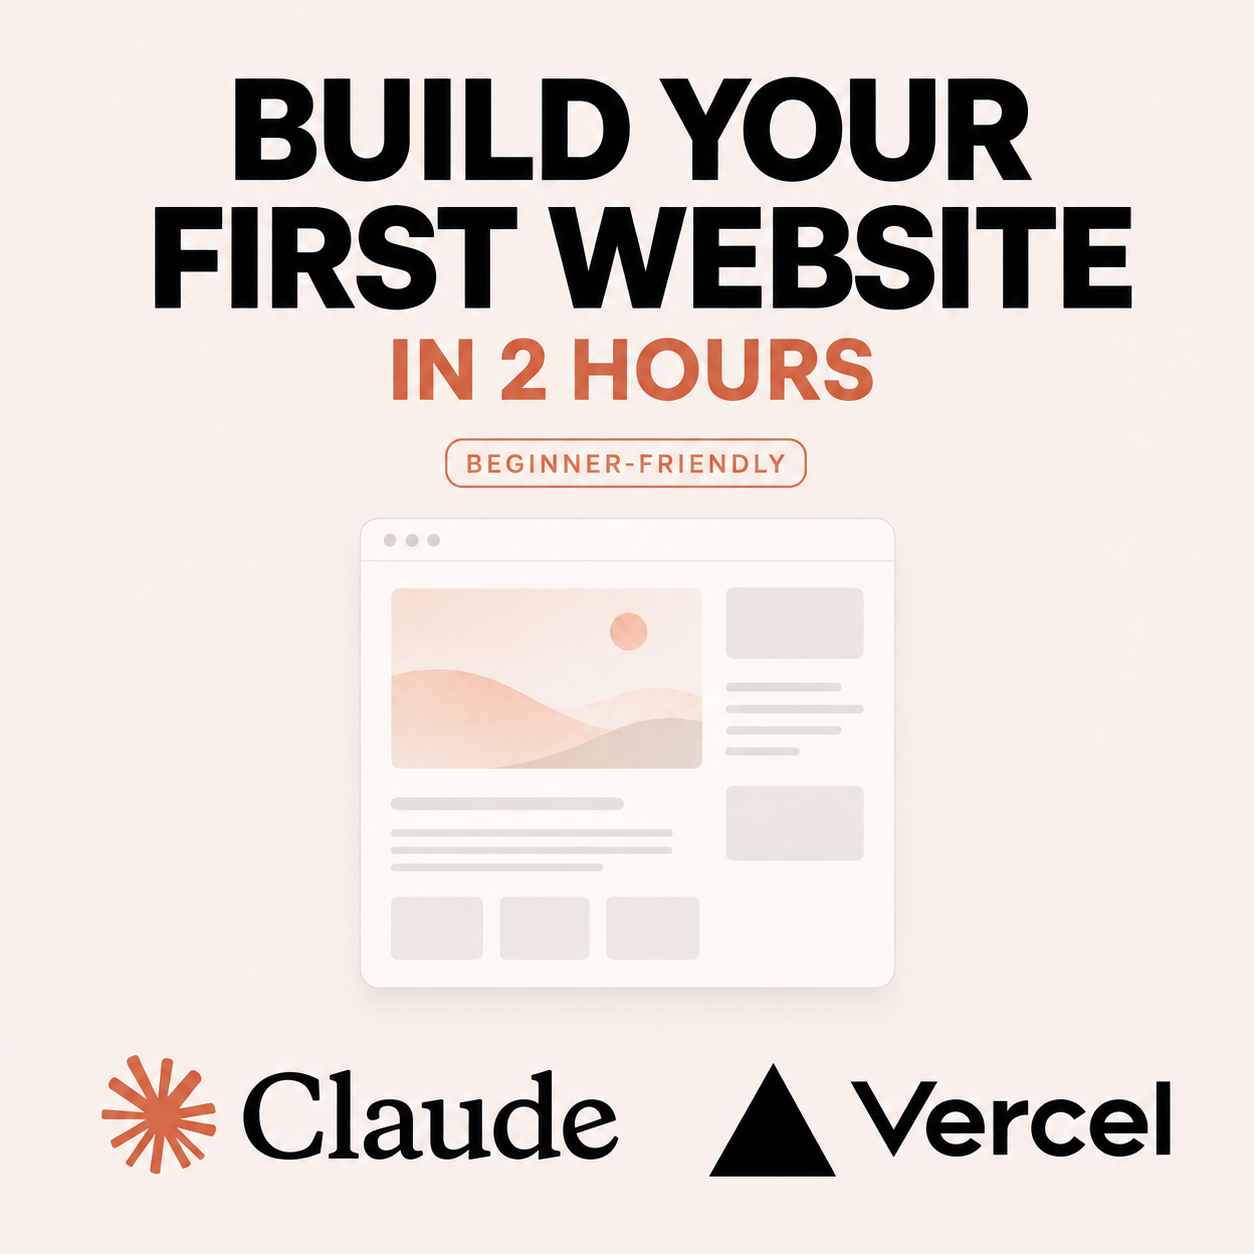
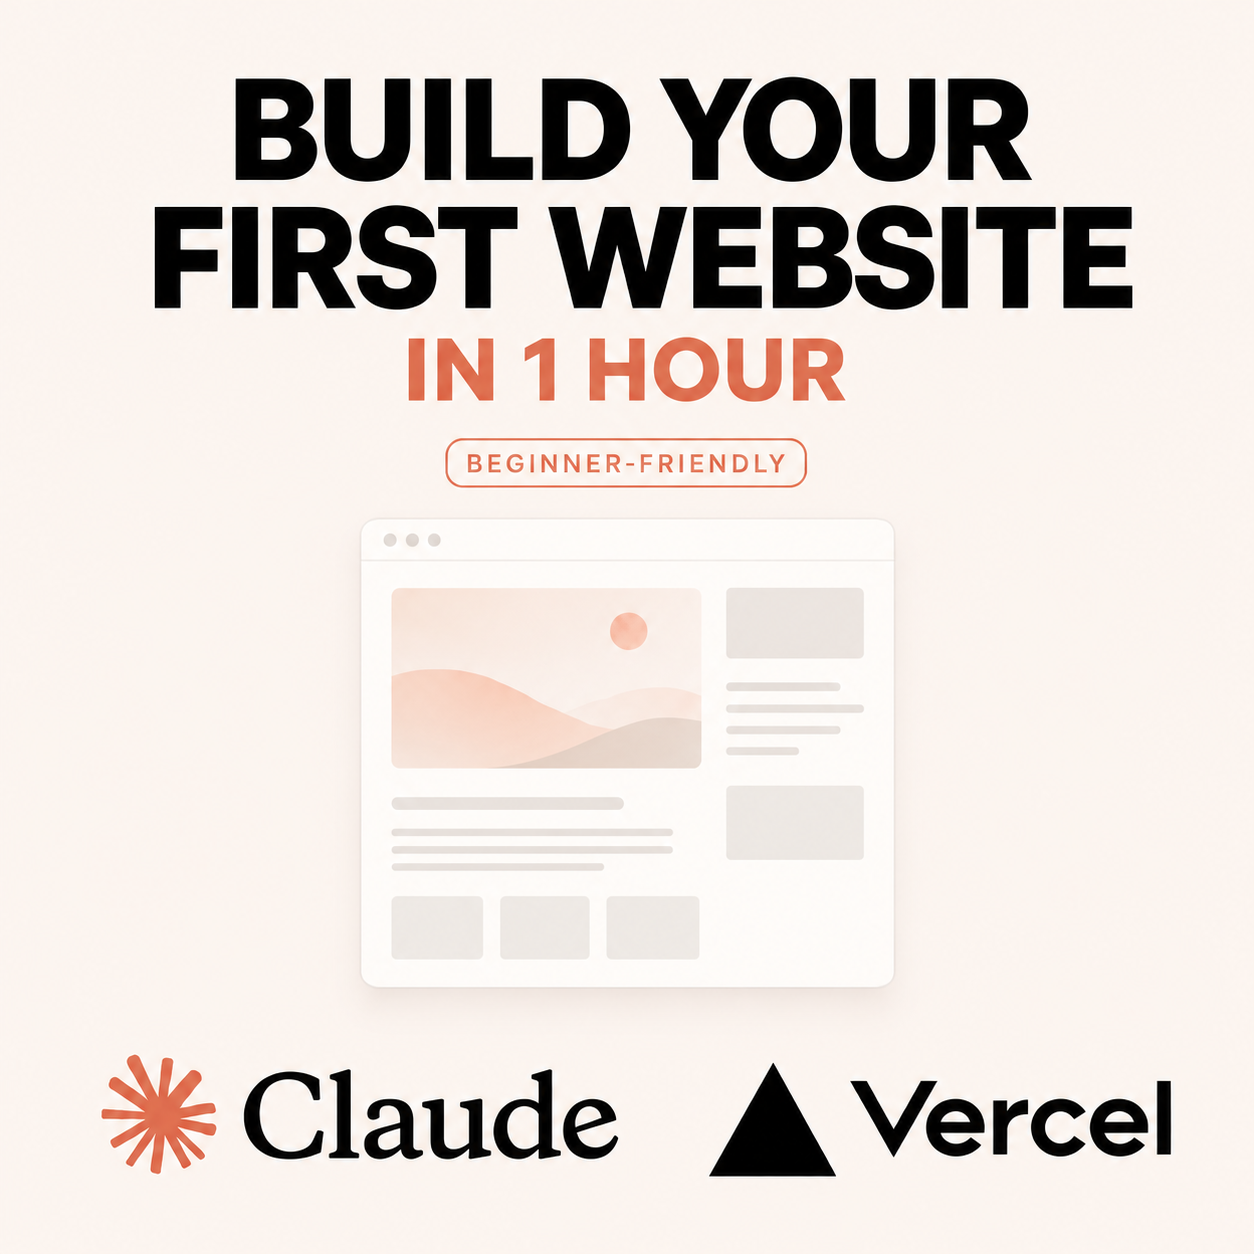
Replace Claude workshop cover with 1-hour version
Claude-Session: https://claude.ai/code/session_01Lpk5UFr1y7HYcs5J7TKPYJ

diff --git a/lib/workshops/claude-steps.tsx b/lib/workshops/claude-steps.tsx
@@ -32,7 +32,7 @@ export const CLAUDE_STEPS: WorkshopStep[] = [
     id: "welcome",
     part: "before you start",
     // The title slide: the page itself carries no hero, so it lives here. The
-    // cover art on the left carries the "in 2 hours" hook, so the heading states
+    // cover art on the left carries the "in 1 hour" hook, so the heading states
     // the promise plainly.
     title: "Build your first website",
     lines: [
@@ -44,7 +44,7 @@ export const CLAUDE_STEPS: WorkshopStep[] = [
       src: "/workshops/claude/title-cover.png",
       width: 1254,
       height: 1254,
-      alt: "Build your first website in 2 hours, beginner-friendly, with Claude and Vercel",
+      alt: "Build your first website in 1 hour, beginner-friendly, with Claude and Vercel",
     },
   },
 

diff --git a/lib/workshops.ts b/lib/workshops.ts
@@ -15,7 +15,7 @@ export const WORKSHOPS: Workshop[] = [
     slug: 'build-your-first-website-with-claude',
     title: 'Build your first website with Claude',
     blurb: 'Build your very first web app with Claude, put it on the internet, and keep it safe. Beginners welcome, one step at a time.',
-    cover: { src: '/workshops/claude/title-cover.png', alt: 'Build your first website in 2 hours, beginner-friendly, with Claude and Vercel' },
+    cover: { src: '/workshops/claude/title-cover.png', alt: 'Build your first website in 1 hour, beginner-friendly, with Claude and Vercel' },
     duration: 'About 45 minutes',
     tools: 'Claude and Vercel',
   },

diff --git a/app/workshops/build-your-first-website-with-claude/page.tsx b/app/workshops/build-your-first-website-with-claude/page.tsx
@@ -6,7 +6,7 @@ const SHARE_IMAGE = {
   url: '/workshops/claude/title-cover.png',
   width: 1254,
   height: 1254,
-  alt: 'Build your first website in 2 hours, beginner-friendly, with Claude and Vercel',
+  alt: 'Build your first website in 1 hour, beginner-friendly, with Claude and Vercel',
 };
 const description = 'Build your very first web app with Claude, put it on the internet, and keep it safe. Beginners welcome, one step at a time.';
 

diff --git a/CLAUDE.md b/CLAUDE.md
@@ -46,3 +46,5 @@ Scaling: the inherited admin/matcher loads club contacts in memory at current ~1
 
 2026-09-24: Workshop gallery. The finish slide (`submit: true` step, `components/workshop/submit-form.tsx`) POSTs name + link to `/api/workshop-submissions`, stored in the `workshopSubmissions` collection `{ workshop, name, url, hidden, createdAt }`. Entries are public immediately on the shared gallery `/workshops/submissions` (all workshops, newest first, labelled by workshop; noindex, not in the sitemap, links carry `nofollow ugc`), linked from a "See what people built" button on `/workshops`. Moderation is live-then-hide: the admin "Workshop submissions" tab (`components/workshop-submissions.tsx`, `/api/events/workshop-submissions[/id]`, requireAdmin) toggles `hidden`. Guards mirror /demo: origin check, honeypot `website`, per-IP 60 attempts and 40 valid submissions an hour (set high on purpose, because a whole workshop room shares one network), and a daily budget `WORKSHOP_SUBMISSION_DAILY_CAP` (default 300). Links go through `normalizeUrl` (http(s) only). The gallery reads the newest 500 and filters hidden in memory; move to an indexed `hidden == false` query past that. The Exa slide no longer offers the $50 credit coupon.
 2026-09-27: Private directory `/g/[token]` gained a name search (`?q=`, GET form, server side via `searchDirectory` in lib/directory.ts: case/accent-insensitive, all words must match, name only) and numbered pagination (`directoryPageList`: 1 2 3 … last, with current ± 1), with larger filled Previous/Next buttons that stay in place (disabled look) at the ends. Styles are the `.directory-search` / `.directory-pagination` / `.pager-*` block at the end of globals.css. Both helpers are pure and tested in tests/directory.test.ts.
+
+2026-09-30: Workshop cover (`public/workshops/claude/title-cover.png`) replaced with the owner-supplied "in 1 hour" version; alt text and OG image copy updated to match.
